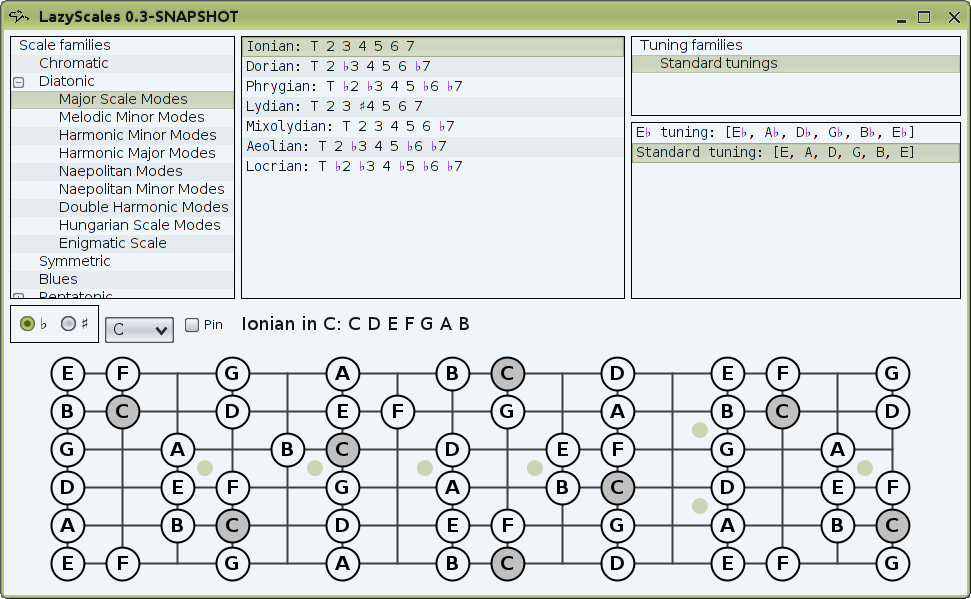
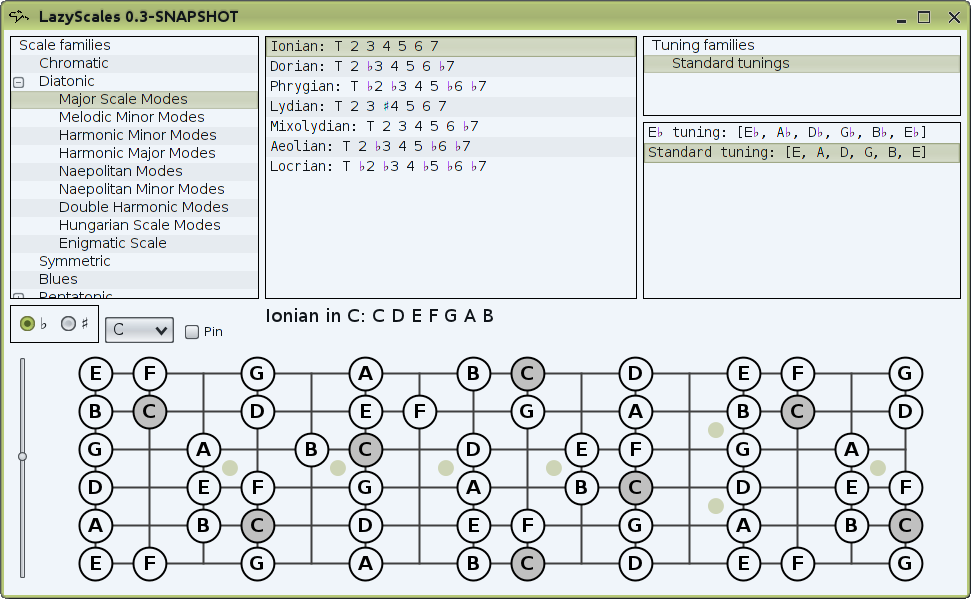
Added pinned label to GUI. Refreshed images.

diff --git a/lazyscales-gui/src/main/java/se/nawroth/scales/gui/LazyScalesApplication.java b/lazyscales-gui/src/main/java/se/nawroth/scales/gui/LazyScalesApplication.java
@@ -95,6 +95,7 @@ public class LazyScalesApplication
     private boolean previousIsFlat;
     private JCheckBox pinCheckBox;
     private JSlider fretsSlider;
+    private JLabel pinnedScaleNotesLabel;
 
     /**
      * Launch the application.
@@ -161,15 +162,11 @@ public class LazyScalesApplication
         frmLazyscales.setBounds( 100, 100, 971, 599 );
         frmLazyscales.setDefaultCloseOperation( JFrame.EXIT_ON_CLOSE );
 
-        // String appdir = System.getenv( "APPDATA" );
-        // if ( appdir == null || appdir.isEmpty() )
-        // {
         String appdir = System.getProperty( "user.home" );
         if ( appdir == null || appdir.isEmpty() )
         {
             appdir = System.getProperty( "user.dir" );
         }
-        // }
 
         File dir = new File( appdir + File.separator + ".LazyScales"
                              + File.separator + "db" );
@@ -210,15 +207,18 @@ public class LazyScalesApplication
         }
         tuningList.setSelectedIndex( 1 );
 
-        scaleNotesLabel = new JLabel( "" );
-        scaleNotesLabel.setVerticalAlignment( SwingConstants.TOP );
-        scaleNotesLabel.setFont( Fonts.SANS.font( 18 ) );
+        scaleNotesLabel = new LazyLabel();
         frmLazyscales.getContentPane()
                 .add( scaleNotesLabel, "cell 3 2 2 1" );
 
+        pinnedScaleNotesLabel = new LazyLabel();
+        pinnedScaleNotesLabel.setForeground( FretboardPanel.PINNED_NOTE_COLOR );
+        frmLazyscales.getContentPane()
+                .add( pinnedScaleNotesLabel, "cell 3 3 2 1" );
+
         fretboardPanel = new FretboardPanel( services );
         frmLazyscales.getContentPane()
-                .add( fretboardPanel, "cell 1 3 4 1,shrinkx 0,grow" );
+                .add( fretboardPanel, "cell 1 4 4 1,shrinkx 0,grow" );
 
         fretsSlider = new JSlider();
         fretsSlider.setToolTipText( "Set the number of frets to use." );
@@ -233,7 +233,7 @@ public class LazyScalesApplication
             }
         } );
         frmLazyscales.getContentPane()
-                .add( fretsSlider, "cell 0 3,alignx center,growy" );
+                .add( fretsSlider, "cell 0 4,alignx center,growy" );
         fretsSlider.setValue( 16 );
         fretsSlider.setMinorTickSpacing( 1 );
         fretsSlider.setMaximum( 24 );
@@ -250,10 +250,13 @@ public class LazyScalesApplication
                 if ( pinCheckBox.isSelected() )
                 {
                     fretboardPanel.pinCurrentScale();
+                    Notes pinned = fretboardPanel.getPinnedScale();
+                    pinnedScaleNotesLabel.setText( pinned.toString() );
                 }
                 else
                 {
                     fretboardPanel.unpinCurrentScale();
+                    pinnedScaleNotesLabel.setText( "" );
                     if ( scaleList.getSelectedIndex() == -1
                          || tuningList.getSelectedIndex() == -1 )
                     {
@@ -267,7 +270,7 @@ public class LazyScalesApplication
         pinCheckBox.setVerticalAlignment( SwingConstants.BOTTOM );
         pinCheckBox.setHorizontalAlignment( SwingConstants.RIGHT );
         frmLazyscales.getContentPane()
-                .add( pinCheckBox, "cell 2 2" );
+                .add( pinCheckBox, "cell 2 2 1 2,alignx right,aligny bottom" );
     }
 
     private void initializeScaleFamilyTree()
@@ -282,7 +285,7 @@ public class LazyScalesApplication
                         new MigLayout(
                                 "",
                                 "[24.00][35.00][86.00][200:254.00,grow][200px:176.00,grow,shrinkprio 30]",
-                                "[80px:n][160px:n][][240px:n,grow]" ) );
+                                "[80px:n][160px:n][19.00][][240px:n,grow]" ) );
         scaleFamilyTree = new FamilyTree( rootNode );
         frmLazyscales.getContentPane()
                 .add( scaleFamilyTree, "cell 0 0 3 2,grow" );
@@ -402,6 +405,7 @@ public class LazyScalesApplication
         {
             scaleNotes.setSharp();
         }
+
         scaleNotesLabel.setText( scaleNotes.toString() );
 
         int selectedTuningIndex = tuningList.getSelectedIndex();
@@ -453,7 +457,7 @@ public class LazyScalesApplication
 
         frmLazyscales.getContentPane()
                 .add( sharpFlatPanel,
-                        "flowx,cell 0 2 2 1,alignx left,aligny bottom" );
+                        "flowx,cell 0 2 2 2,alignx left,aligny bottom" );
         flatRadio = new JRadioButton( "♭" );
         flatRadio.setFont( Fonts.SANS.font( 16 ) );
         sharpFlatPanel.add( flatRadio );
@@ -488,7 +492,7 @@ public class LazyScalesApplication
         } );
 
         frmLazyscales.getContentPane()
-                .add( noteCombo, "flowx,cell 2 2,alignx left,aligny bottom" );
+                .add( noteCombo, "flowx,cell 2 2 1 2,alignx left,aligny bottom" );
         refreshNoteCombo();
     }
 

diff --git a/lazyscales-gui/src/main/java/se/nawroth/scales/gui/LazyLabel.java b/lazyscales-gui/src/main/java/se/nawroth/scales/gui/LazyLabel.java
@@ -1,0 +1,44 @@
+/**
+ * Copyright (c) 2002-2012 "Neo Technology,"
+ * Network Engine for Objects in Lund AB [http://neotechnology.com]
+ *
+ * This file is part of Neo4j.
+ *
+ * Neo4j is free software: you can redistribute it and/or modify
+ * it under the terms of the GNU General Public License as published by
+ * the Free Software Foundation, either version 3 of the License, or
+ * (at your option) any later version.
+ *
+ * This program is distributed in the hope that it will be useful,
+ * but WITHOUT ANY WARRANTY; without even the implied warranty of
+ * MERCHANTABILITY or FITNESS FOR A PARTICULAR PURPOSE.  See the
+ * GNU General Public License for more details.
+ *
+ * You should have received a copy of the GNU General Public License
+ * along with this program.  If not, see <http://www.gnu.org/licenses/>.
+ */
+package se.nawroth.scales.gui;
+
+import javax.swing.JLabel;
+import javax.swing.SwingConstants;
+
+public class LazyLabel extends JLabel
+{
+    public LazyLabel()
+    {
+        super();
+        initLooks();
+    }
+
+    public LazyLabel( String text )
+    {
+        super( text );
+        initLooks();
+    }
+
+    private void initLooks()
+    {
+        setFont( Fonts.SANS.font( 18 ) );
+        setVerticalAlignment( SwingConstants.TOP );
+    }
+}

diff --git a/lazyscales-gui/src/main/java/se/nawroth/scales/gui/FretboardPanel.java b/lazyscales-gui/src/main/java/se/nawroth/scales/gui/FretboardPanel.java
@@ -43,7 +43,7 @@ public class FretboardPanel extends JPanel
     /**
      * org.pushingpixels.substance.api.colorscheme.OliveColorScheme.mainMidColor
      */
-    private static final Color PINNED_NOTE_COLOR = new Color( 165, 174, 129 );
+    static final Color PINNED_NOTE_COLOR = new Color( 165, 174, 129 );
     private static final Color TUNING_NOTE_FONT_COLOR = Color.lightGray;
     private static final Color TUNING_NOTE_CIRCLE_COLOR = Color.lightGray;
     /**
@@ -362,6 +362,11 @@ public class FretboardPanel extends JPanel
     public void unpinCurrentScale()
     {
         pinnedNotes = null;
+    }
+
+    public Notes getPinnedScale()
+    {
+        return pinnedNotes;
     }
 
     private enum NotePinnedState
